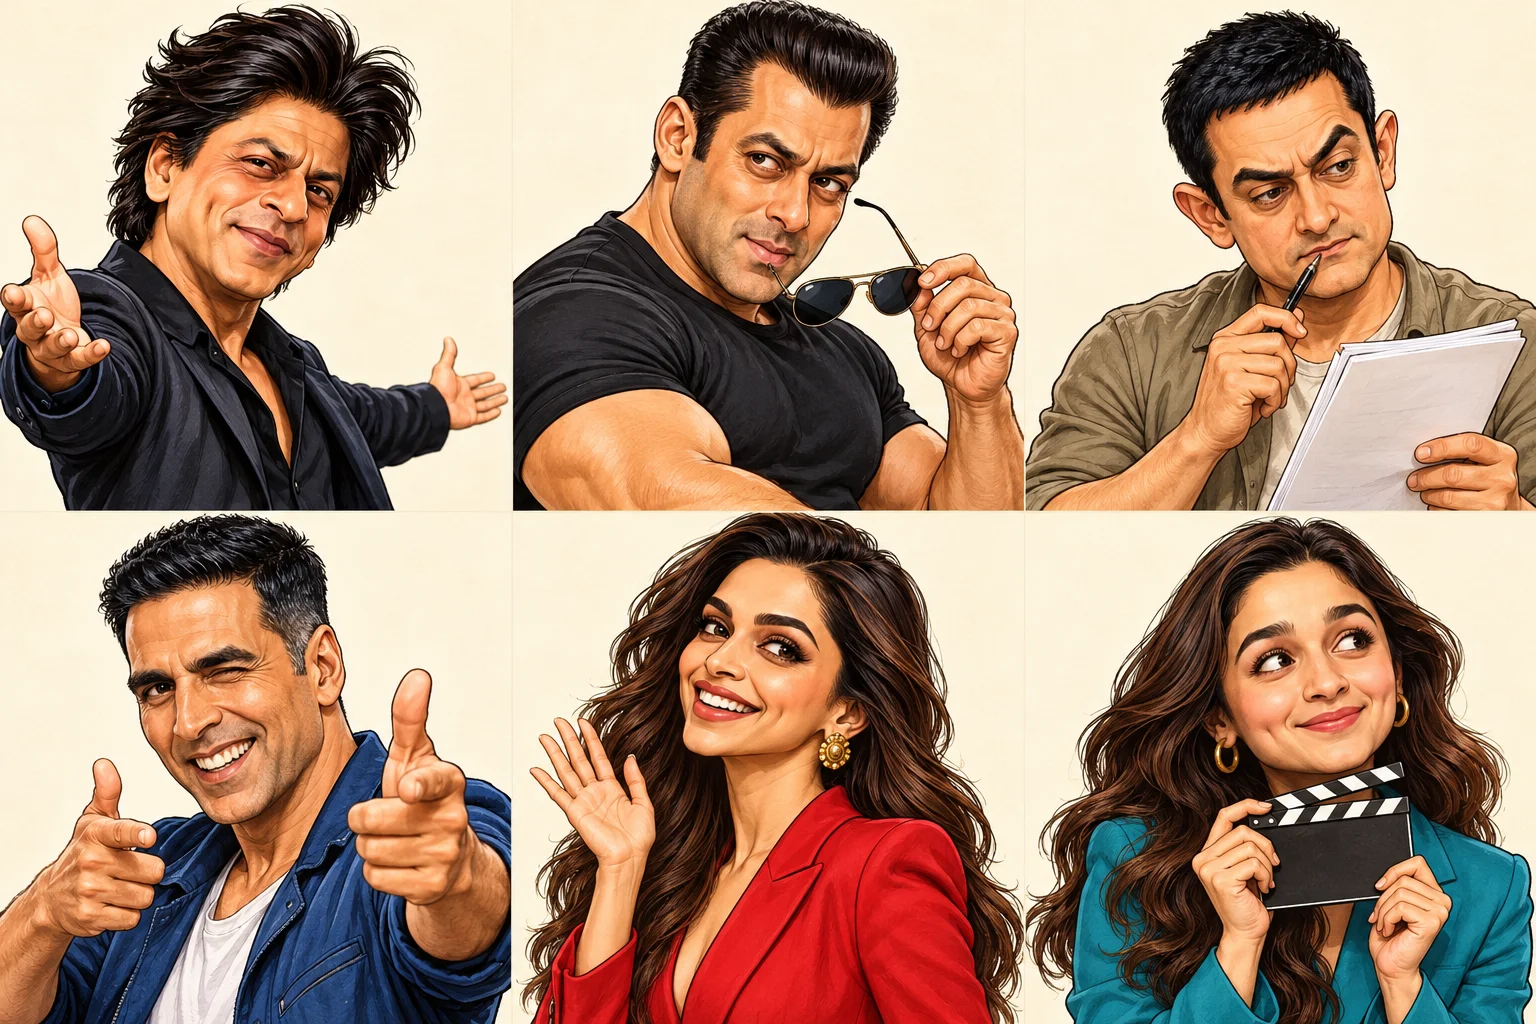
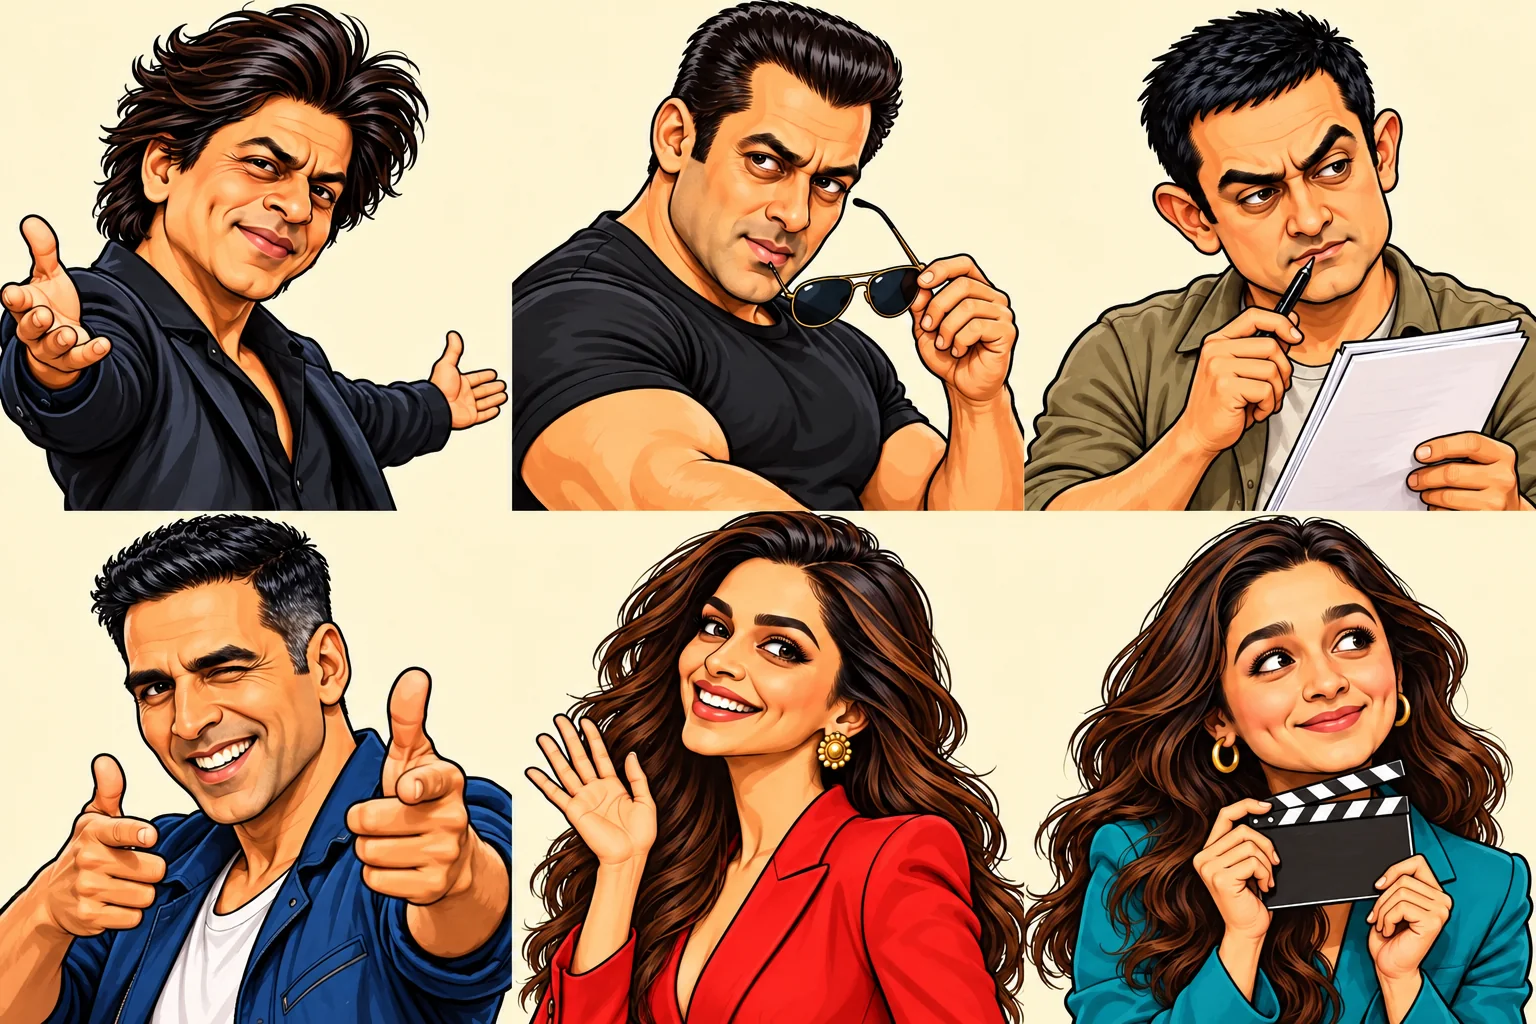
Give anchor actor and corporate casts matching cartoon artwork

diff --git a/docs/FUNCTIONALITY_LEDGER.md b/docs/FUNCTIONALITY_LEDGER.md
@@ -1,5 +1,29 @@
 # Chambers functionality ledger
 
+**Arena cartoon artwork (2026-10-24):** Applied the approved news-anchor style
+to all eighteen anchors, actors and corporates. Replaced the three portrait and
+three reaction sheets with recognisable caricatures: larger heads, bold outlines
+and simplified shading, preserving distinctive hair/glasses/props and character
+order. All six final assets are 1536×1024 WebP in the existing frontend paths;
+portrait sheets retain 3×2 cells and expressions retain 6×4 cells (happy,
+startled, annoyed, laughing). Shared mappings supply cards, profiles and exported
+art. Combined asset size: 1,437,308 → 1,425,568 bytes. Generated with built-in
+image_gen; final prompts and encoding settings are recorded in
+`docs/SATIRE_CARTOON_ART_2026-10-24.json`. Eight targeted browser workflows pass,
+including all 31 profile crops across four widths/two themes, new-cast reaction
+states, detail restoration, delayed expression loads, saved choices and genuine
+share image exports. Screenshots were visually reviewed for the anchor detail
+pages. Production deployment verification pending for this artwork release.
+
+**Arena cartoon-style review (2026-10-24, preview only):** Inspected current
+anchor, actor, corporate and politician portrait sheets plus anchor reaction
+expressions. Newer casts retain realistic facial proportions and detailed skin
+shading. Generated a separate six-anchor caricature preview with the built-in
+image tool: larger heads, bold contours, simplified shading, preserved character
+order/props and recognisable facial cues. Preview is displayed in conversation;
+no production assets, mappings or deployment changed. Any rollout must update
+both portrait and expression sheets consistently for cards and detail pages.
+
 **Performance/reuse implementation (2026-10-24):** Implemented lazy Fund Lens
 Worker partitions, scoped shared UI observation, minute-boundary Arena countdowns,
 combined/grouped Arena results, early public dispatch, shared HTTP/download/escape

diff --git a/README.md b/README.md
@@ -7,6 +7,10 @@ Confessions and Feedback. The voluntary one-time [Support Us page](/support)
 remains available.
 See the functionality ledger for current implementation and verification status.
 
+Satire Arena's news anchors, actors and corporates now use coordinated cartoon
+caricatures, with matching happy, startled, annoyed and laughing reaction faces.
+Cards, character details and share images use the same optimized artwork.
+
 Satire Arena's anchors, actors and corporates use eighteen original fictional
 names, including Decibel Dada, Baahon Badshah and Rocket Raees. Detail pages add
 comic exchanges, backstage notes and copyable Encore punchlines. Existing
